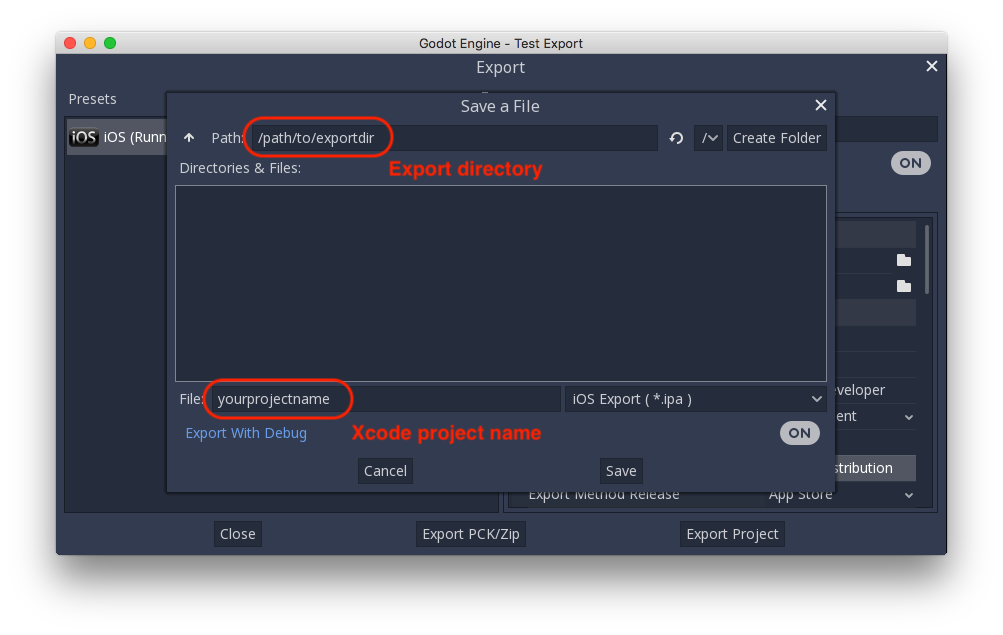
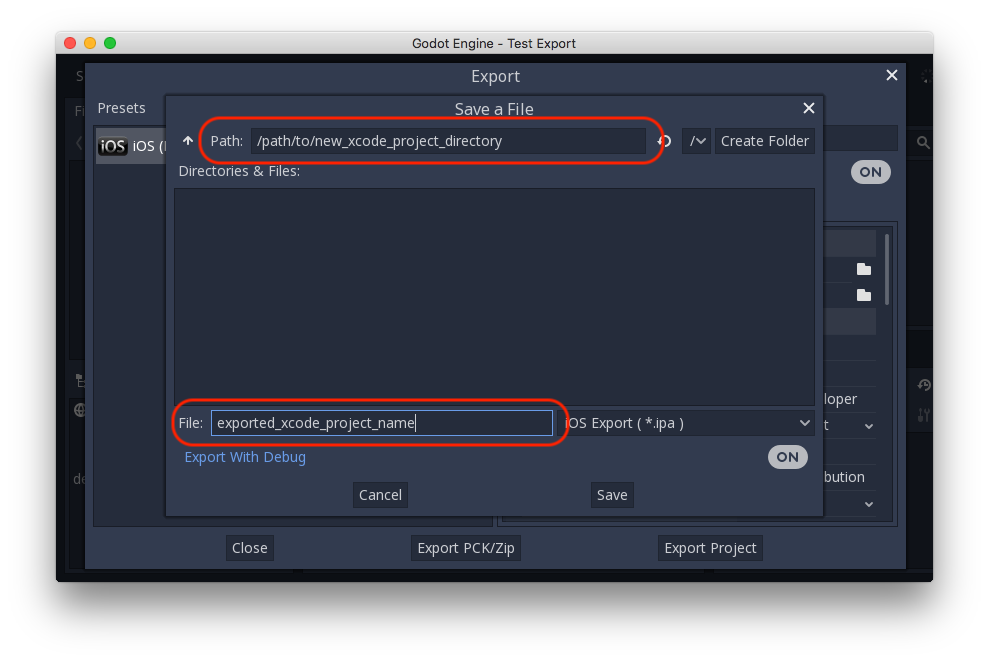
Add steps for building for iOS from your Godot project directory

Changed region(s): [[0.0303, 0.0598, 0.9707, 0.8976], [0.7583, 0.5984, 0.8797, 0.7181]]

diff --git a/getting_started/workflow/export/exporting_for_ios.rst b/getting_started/workflow/export/exporting_for_ios.rst
@@ -3,40 +3,87 @@
 Exporting for iOS
 =================
 
-Exporting for iOS is done manually at the moment. These are the steps to
-load your game in an XCode project, where you can deploy to a device,
+These are the steps to load your game in an Xcode project, where you can deploy to a device,
 publish, etc.
 
 Requirements
 ------------
 
--  You must export for iOS on a mac
--  Download the export templates. Use the Godot menu: Editor > Manage Export Templates
+-  You must export for iOS from a comupter running macOS with Xcode installed.
+-  Download the Godot export templates. Use the Godot menu: Editor > Manage Export Templates
 
 
 Exporting your project
----------------------
+----------------------
 
-In the Godot editor, open the Export window from the Project menu. When the 
-Export window opens, click Add.. and select iOS. 
+In the Godot editor, open the **Export** window from the **Project** menu. When the 
+Export window opens, click **Add..** and select **iOS**. 
 
-If you haven't downloaded the Godot export templates for your version, a 
-"Manage Export Templates" link will appear on the bottom of the window. Click
-that link and install the templates, it may take several minutes. 
+The following export options are required. Leaving any blank with cause the 
+exporter to throw an error:
 
-Once the templates are installed, fill in your export options.
-Several are required. 
+  * In the **Application** category
+    * **App Store Team ID**
+  * Everything in the **Required Icons** category
+  * Everything in the **Landscape Launch Screens** category
+  * Everything in the **Portrait Launch Screens** category
 
-.. image:: img/ios_export_requiredoptions.png
+After you click **Export Project**, there are still two important options left:
 
-After you click Export Project, there are still two important options left. 
+  * **Path** should be an empty folder that will contain your exported Xcode project files. 
+  * **File** will be the name of your Xcode project and several project specific files and directories.  
 
 .. image:: img/ios_export_file.png
 
-Make sure to specify the File field. It will be used as your Xcode project name. 
+When the export completes, the options I used will create a directory that looks like this:
 
-Go to the export directory you specified, open the .xcodeproj file and build and 
-run as normal. 
+.. image:: img/ios_export_output.png
+
+I can now open **exported_xcode_project_name.xcodeproj** to build and deploy my game
+like any other iOS app. 
+
+
+Active development considerations
+---------------------------------
+
+The above method creates an exported project that you can build for release, but you
+have to re-export every time you make a change in Godot. 
+
+While developing your game, you can speed this process up by building your Godot project
+files directly into your app. 
+
+In the following example:
+
+  * **exported_xcode_project_name** is the name of the exported iOS application (as above). 
+  * **godot_project_to_export** is the name of the Godot project I exported it from. 
+
+Steps to use your Godot project directory in Xcode
+~~~~~~~~~~~~~~~~~~~~~~~~~~~~~~~~~~~~~~~~~~~~~~~~~~
+
+1. Start from an exported iOS project like I created above.
+2. In Finder, drag your Godot project folder into the Xcode file browser. 
+
+.. image:: img/ios_export_add_dir.png
+
+3. In the dialog, make sure **Create folder references** is selected. This means
+that you can continue to edit your Godot project in its current location.
+
+.. image:: img/ios_export_file_ref.png
+
+4. You now see the **godot_project_to_export** directory in the Xcode file browser. 
+5. Delete **exported_xcode_project_name.pck** from the Xcode project.
+
+.. image:: img/ios_export_delete_pck.png
+
+6. Open **exported_xcode_project_name-Info.plist** and add a string property named
+**godot_path** (this is the real key name) with a value **godot_project_to_export** 
+(this is the name of your project)
+
+.. image:: img/ios_export_set_path.png
+
+That's it! Continue to edit your project in the Godot editor and build it in Xcode when you 
+want to run it on a device. 
+
 
 Services for iOS
 ----------------
